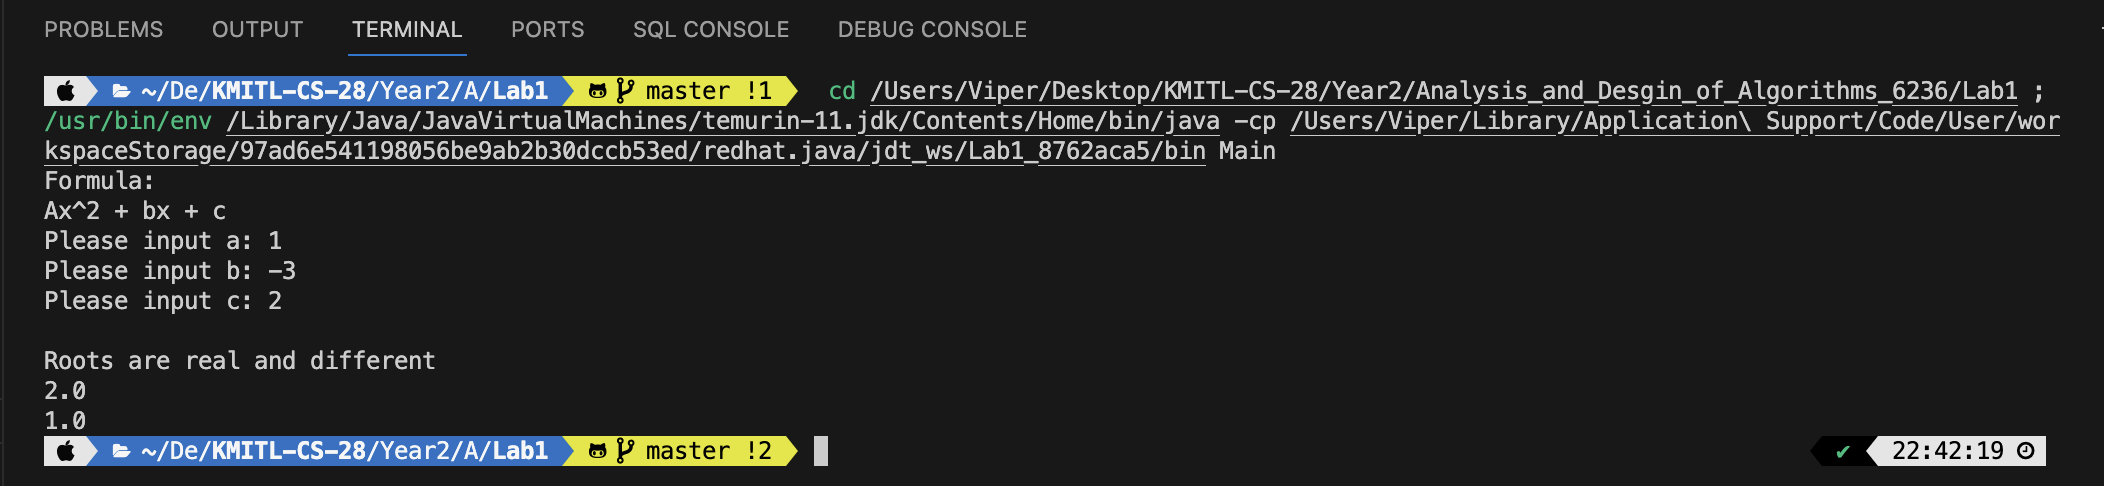
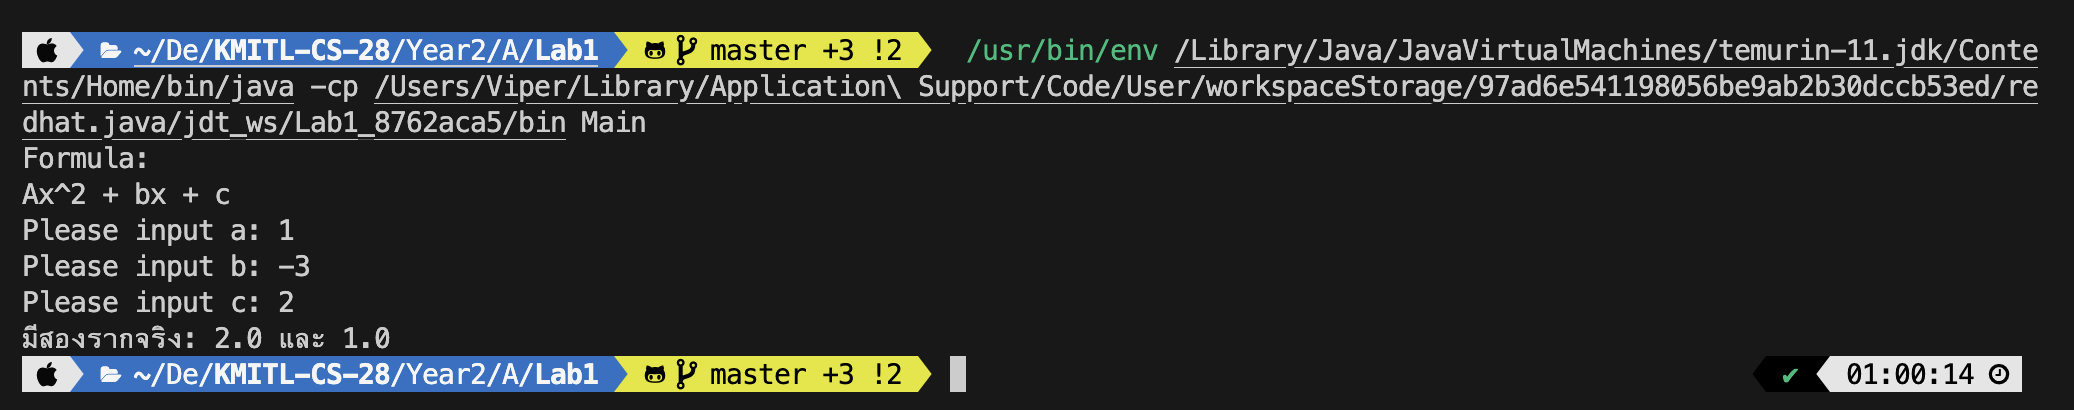
Update code

diff --git a/Year2/Analysis_and_Desgin_of_Algorithms_6236/Lab1/Main.java b/Year2/Analysis_and_Desgin_of_Algorithms_6236/Lab1/Main.java
@@ -1,5 +1,4 @@
 import java.util.Scanner;
-import static java.lang.Math.*;
 
 public class Main {
     public static void main(String[] args) {
@@ -9,31 +8,33 @@ public class Main {
         System.out.println("Formula:\nAx^2 + bx + c");
         System.out.print("Please input a: ");
         a = sc.nextDouble();
-
-        if (a == 0) {
-            System.out.println("a can't be 0");
-            sc.close();
-            return;
-        }
-
         System.out.print("Please input b: ");
         b = sc.nextDouble();
         System.out.print("Please input c: ");
         c = sc.nextDouble();
         sc.close();
 
-        double d = b * b - 4 * a * c;
-        double sqrt_val = sqrt(abs(d));
- 
-        if (d > 0) {
-            System.out.println("\nRoots are real and different");
-            System.out.println((double)(-b + sqrt_val) / (2 * a) + "\n" + (double)(-b - sqrt_val) / (2 * a));
-        } else if (d == 0) {
-            System.out.println("\nRoots are real and same");
-            System.out.println(-(double)b / (2 * a) + "\n" + -(double)b / (2 * a));
+        if (a != 0) {
+            double d = b * b - 4 * a * c;
+    
+            if (d > 0) {
+                double root1 = (-b + Math.sqrt(d)) / (2 * a);
+                double root2 = (-b - Math.sqrt(d)) / (2 * a);
+                System.out.println("มีสองรากจริง: " + root1 + " และ " + root2);
+            } else if (d == 0) {
+                double root = -b / (2 * a);
+                System.out.println("มีรากเดียว: " + root);
+            } else {
+                double realPart = -b / (2 * a);
+                double imaginaryPart = Math.sqrt(-d) / (2 * a);
+                System.out.println("ไม่มีรากจริง: " + realPart + " + " + imaginaryPart + "i และ " + realPart + " - " + imaginaryPart + "i");
+            }
         } else {
-            System.out.println("\nRoots are complex");
-            System.out.println(-(double)b / (2 * a) + " + i" + sqrt_val / (2 * a) + "\n" + -(double)b / (2 * a) + " - i" + sqrt_val / (2 * a));
+            if (b == 0) {
+                System.out.println("หาคำตอบไม่ได้");
+            } else {
+                System.out.println(-c / b);
+            }
         }
     }
 }

diff --git a/Year2/Analysis_and_Desgin_of_Algorithms_6236/Lab1/flowchart.md b/Year2/Analysis_and_Desgin_of_Algorithms_6236/Lab1/flowchart.md
@@ -5,6 +5,7 @@ graph TD
   C -- No --> D[Calculate Discriminant]
   D --> E[Calculate Roots]
   E --> F[Print Results]
-  C -- Yes --> G[Display Error]
-  G --> A
+  C -- Yes --> G{B = 0?}
+  G -- Yes --> H[Display Error]
+  G -- No --> F
 ```
